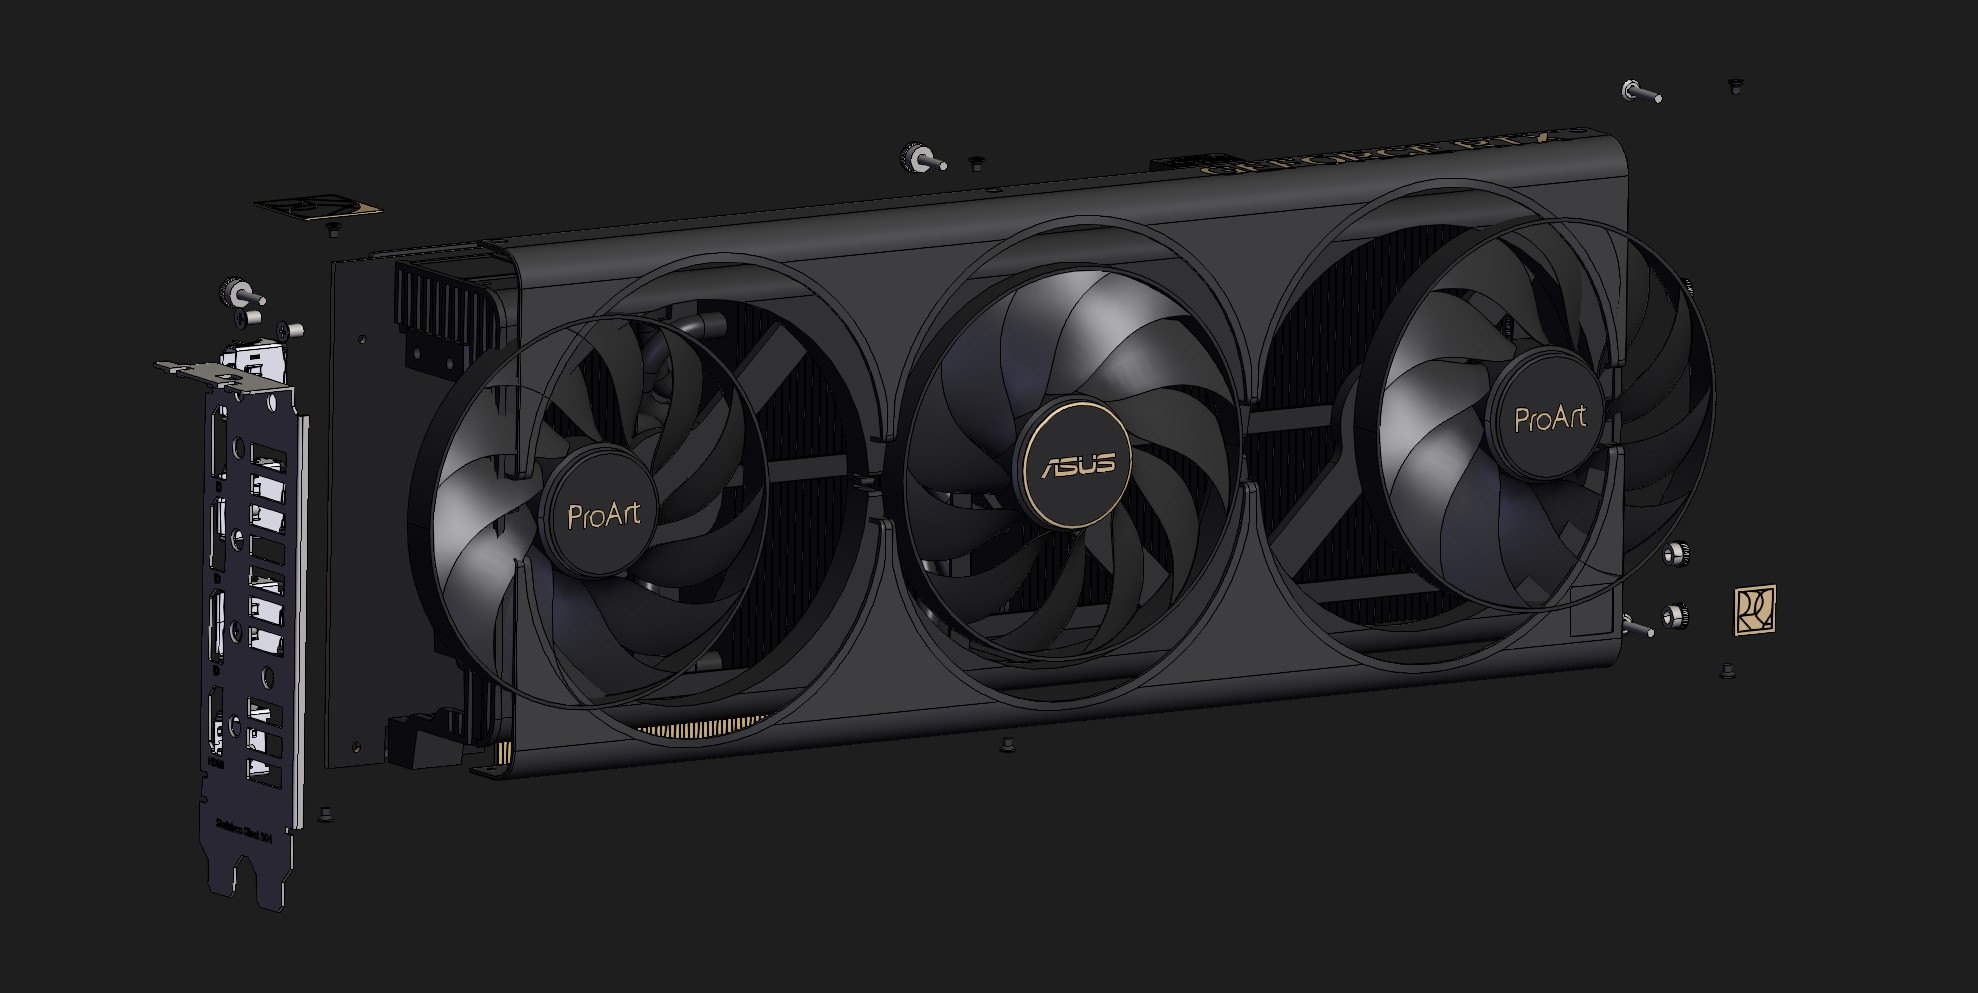
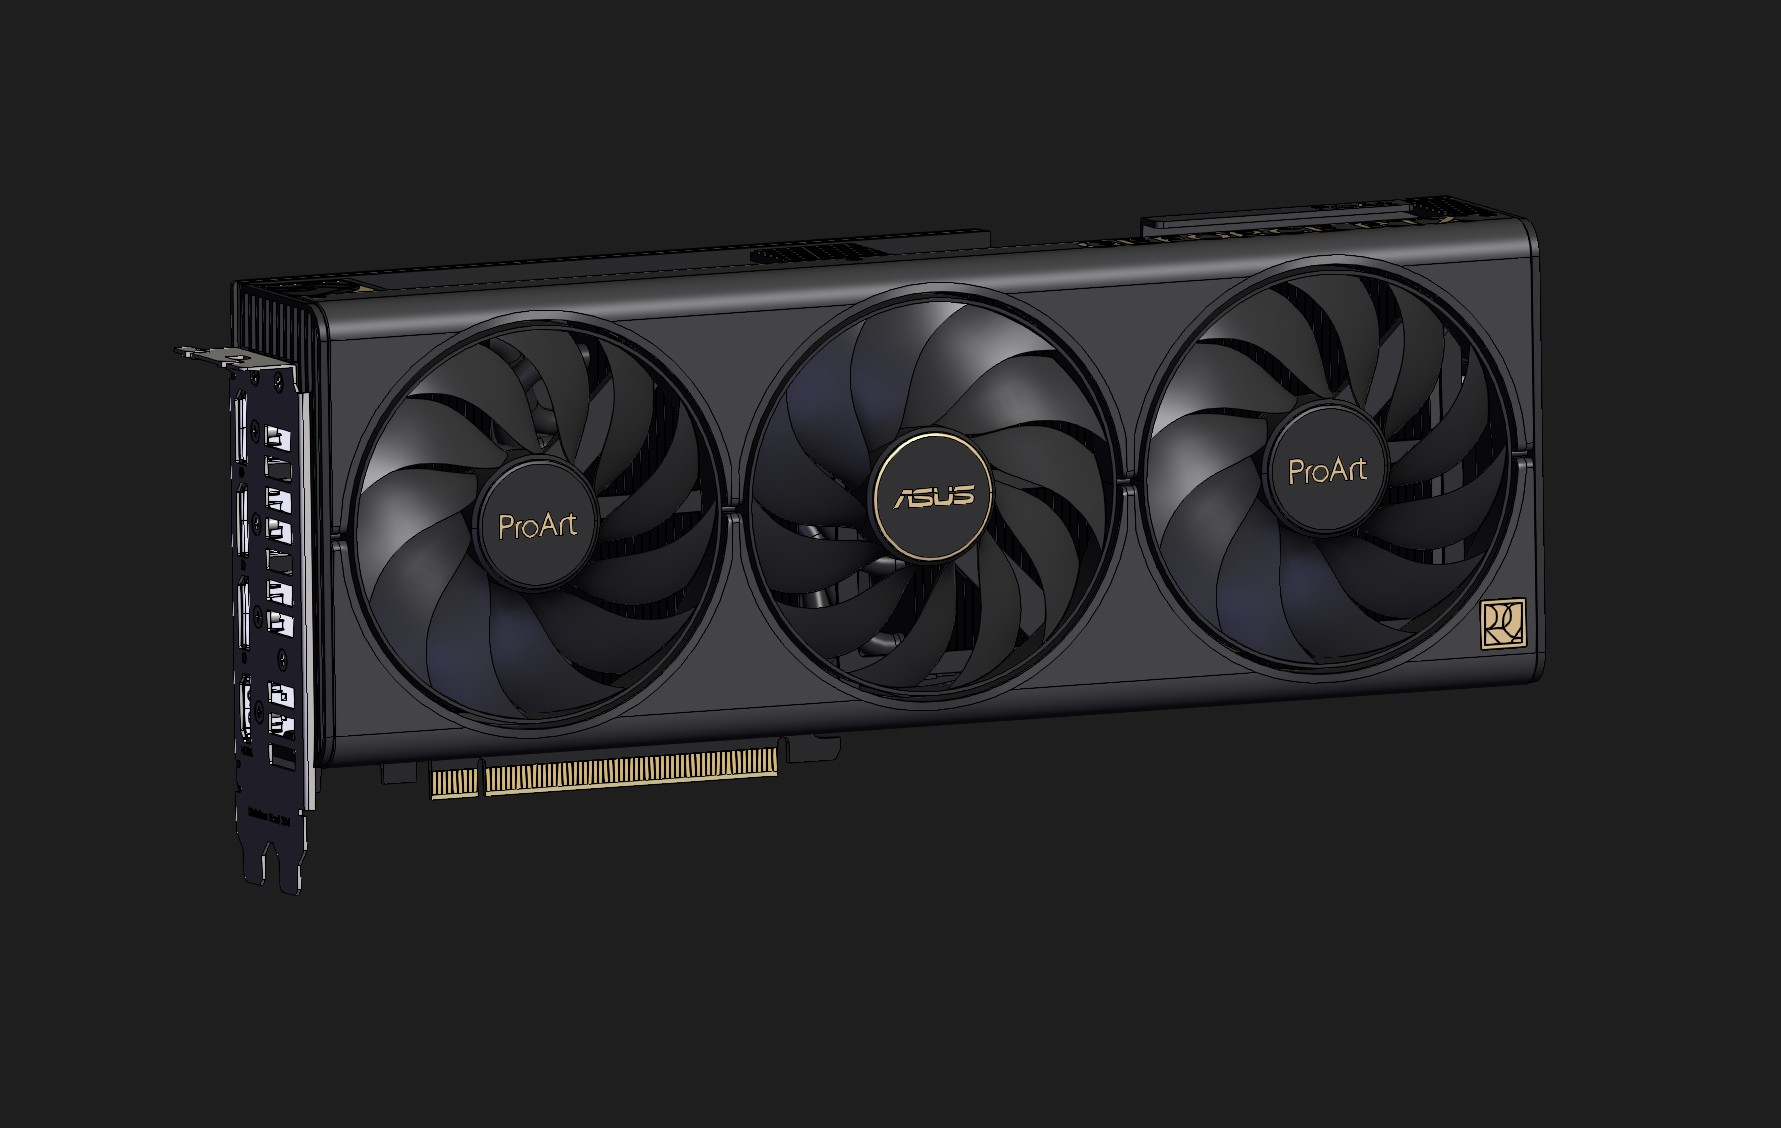
updated input data imagery, added asset descriptions to all sample data readme md files

Changed region(s): [[0.0926, 0.1249, 0.8956, 0.8429], [0.8029, 0.0624, 0.8338, 0.0937]]

diff --git a/sample-assets/WRE 45 ASS TOTAL.x_t/README.md b/sample-assets/WRE 45 ASS TOTAL.x_t/README.md
@@ -10,7 +10,9 @@ https://grabcad.com/library/refrigerator-wre45-1
 
 ## Screenshots
 
-![screenshot](<screenshot/WRE 45 ASS TOTAL.x_t.jpg>)
+![screenshot](<screenshot/WRE 45 ASS TOTAL.x_t.jpg>)  
+
+![screenshot](<screenshot/WRE 45 ASS TOTAL.x_t_explode.jpg>)  
 
 ## Description
 
@@ -18,7 +20,23 @@ refrigerator WRE45 Brastemp Gourmand
 
 ## Purpose
 
-This sample CAD asset demonstrates ...
+This complex sample CAD asset with fillets and interior parts demonstrates quite a few challenges for a propper conversion from parametric CAD to polygonal mesh:
+
+### Small & Interior Parts
+
+1. A few hundred interior parts with nested or overlapping parts (e.g. bolts, hinges within other interior parts).  
+
+### Winding Order
+
+2. Winding Order Issues. These usually stem from translation issues from parametric CAD to mesh surface, but can also have their origin within the CAD data set for example due to intersecting surfaces or open edges.  
+
+![screenshot](<screenshot/WRE 45 ASS TOTAL.x_t_windingOrder.jpg>)  
+
+### Duplicated Parts
+
+3. Some parts can be challenging for further processing as they are overlapping (e.g. pins for winding order correction). This usually stems from issues with instancing or duplicated parametric data from the input asset.  
+
+
 
 
 ## Author

diff --git a/sample-assets/Robot rv.IGS/README.md b/sample-assets/Robot rv.IGS/README.md
@@ -10,7 +10,9 @@ https://grabcad.com/library/mitsubishi-rv-2f-d1-s16-6-axis-robot-arm-1
 
 ## Screenshots
 
-![screenshot](screenshot/Robotrv.jpg)
+![screenshot](screenshot/Robotrv.jpg)  
+
+![screenshot](screenshot/Robotrv_explode.jpg)  
 
 ## Description
 
@@ -28,7 +30,17 @@ Weight: Approx. 17 kg (depending on configuration)
 
 ## Purpose
 
-This sample CAD asset demonstrates ...
+This sample CAD asset demonstrates quite a few challenges for a propper conversion from parametric CAD to polygonal mesh:
+
+### Surface Patches
+
+1. The parametric surface was created through patches which are non-solids and allow for the creation of non-planar, complex 3D surfaces. However these patches present quite a large challenge for the tessellation and mesh processing step. Ideally they are already merged  on the b-rep level before any tessellation.  
+
+### Winding Order
+
+2. Winding Order Issues. These usually stem from translation issues from parametric CAD to mesh surface, but can also have their origin within the CAD data set for example due to intersecting surfaces or open edges.  
+
+![screenshot](<screenshot/Robotrv_windingOrder.jpg>)  
 
 
 ## Author

diff --git a/sample-assets/28L Storage Box - Assembly.x_t/README.md b/sample-assets/28L Storage Box - Assembly.x_t/README.md
@@ -27,7 +27,13 @@ Sterilite's Ultra™ Latch Storage Box line is ideal for those customers who wan
 
 ## Purpose
 
-This sample CAD asset demonstrates ...
+This sample CAD asset demonstrates multiple challenges for the dataprep and 3D processing steps:  
+
+1. Parts of this asset (lid) provide an exceptional challenge for the initial mesh normal calculation during the tessellation process. This is usually due to inaccuracies during the conversion process and the origin of those are usually complex fillets or sharp edges within the original parametric surfaces or solid.  
+
+2. Complex Corner fillets. These particular shapes within the parametric CAD surface data is very challenging for the tessellation process and can lead to inaccuracies such as overlapping triangles and other topological issues within the geometry.  
+
+3. Double-sided surfaces. The storage box walls are double sided and provide a challenge for tessellation, especially lower resolutions where resulting tessellated surfaces might be overlapping.  
 
 
 ## Author

diff --git a/sample-assets/Cordless Drill DeWalt DCD791_variation01-standard.3dm/README.md b/sample-assets/Cordless Drill DeWalt DCD791_variation01-standard.3dm/README.md
@@ -14,11 +14,17 @@ Cordless Drill DeWalt DCD791_variation01 - Standard Variant with Interior Parts
 
 ## Description
 
-TBD
+Sample model created by DGG in .3dm format. Create with Rhino - Rhinoceros 3D.  
 
 ## Purpose
 
-This sample CAD asset demonstrates ...
+This sample CAD asset is a good showcase for a simple parametric object with a few challenges:
+
+1. Complex fillets and solid parts which can be challenging for tessellation process.  
+
+2. Interior Parts (battery charger etc.).  
+
+3. Extruded text as part of the CAD surfaces. This can be very challenging for 3D processing and optimization after initial tessellation.  
 
 
 ## Author
@@ -27,4 +33,6 @@ DGG - https://rapidpipeline.com/en/blog/rapidpipeline-twin-studio-digital-twin-c
 
 ## Legal
 
-TBD 
+[DGG Privacy Policy](https://rapidpipeline.com/en/privacy-policy/)  
+
+[DGG](https://rapidpipeline.com/en/imprint/)  

diff --git a/sample-assets/Cooper CAD refined.step/README.md b/sample-assets/Cooper CAD refined.step/README.md
@@ -10,7 +10,9 @@ https://grabcad.com/library/cooper-quadruped-robot-robot-dog-1
 
 ## Screenshots
 
-![screenshot](screenshot/cooper-quadruped-robot-robot-dog-1.jpg)
+![screenshot](screenshot/cooper-quadruped-robot-robot-dog-1.jpg)  
+
+![screenshot](screenshot/cooper-quadruped-robot-robot-dog-1_explode.jpg)  
 
 ## Description
 
@@ -22,7 +24,7 @@ Overall, the final robot is a stiff, reliable and high-performance quadruped des
 
 ## Purpose
 
-This sample CAD asset demonstrates ...
+This asset is a good example for a medium complex CAD assembly with a number of intricate and interior parts (screws, bolts, PCBs etc.) as well as some more complex scene hierarchy and dependencies.  
 
 
 ## Author

diff --git a/sample-assets/KA ProArt- RTX-4090SO16G v16.step/README.md b/sample-assets/KA ProArt- RTX-4090SO16G v16.step/README.md
@@ -10,7 +10,9 @@ https://grabcad.com/library/proart-rtx-4080so16g-1
 
 ## Screenshots
 
-![screenshot](<screenshot/KA ProArt- RTX-4090SO16G v16.jpg>)
+![screenshot](<screenshot/KA ProArt- RTX-4090SO16G v16.jpg>)  
+
+![screenshot](<screenshot/KA ProArt- RTX-4090SO16G v16_explode.jpg>)  
 
 ## Description
 
@@ -18,7 +20,7 @@ Drawing software: Fusion360. Manual surveying may contain errors; for reference 
 
 ## Purpose
 
-This sample CAD asset demonstrates ...
+This sample CAD asset is a representative example for a small sized hard-surface object with fillets, interior parts, extruded text and parts created from Tangent Surfaces.  
 
 
 ## Author

diff --git a/sample-assets/ASSEMBLING_notebook.STEP/README.md b/sample-assets/ASSEMBLING_notebook.STEP/README.md
@@ -10,7 +10,9 @@ https://grabcad.com/library/laptop-s1-1
 
 ## Screenshots
 
-![screenshot](<screenshot/ASSEMBLING_notebook.jpg>)
+![screenshot](<screenshot/ASSEMBLING_notebook.jpg>)  
+
+![screenshot](<screenshot/ASSEMBLING_notebook_explode.jpg>)  
 
 ## Description
 
@@ -25,8 +27,7 @@ battery 180Wh (up to 12 hours of continuous operation)
 
 ## Purpose
 
-This sample CAD asset demonstrates ...
-
+This sample CAD asset is a simple example for a small sized hard-surface objects with some basic fillets and interior parts.  
 
 ## Author
 

diff --git a/sample-assets/EG 43-17 HG Pojemnik.STEP/README.md b/sample-assets/EG 43-17 HG Pojemnik.STEP/README.md
@@ -29,8 +29,8 @@ Colour silver grey similar RAL 7001
 
 ## Purpose
 
-This sample CAD asset demonstrates ...
-
+This sample CAD asset is suitable to oberve the effects of tessellation and different tessellation resolutions as well as settings.  
+It also contains more sharp / hard-surface shapes as well as some beveled and rounded shapes as well which are a good basis evaluating tessellation quality.  
 
 ## Author
 

diff --git a/sample-assets/no.468 gt4rs.stp/README.md b/sample-assets/no.468 gt4rs.stp/README.md
@@ -10,7 +10,9 @@ https://grabcad.com/library/porsche-718-cayman-gt4-rs-1
 
 ## Screenshots
 
-![screenshot](<screenshot/no.468 gt4rs.jpg>)
+![screenshot](<screenshot/no.468 gt4rs.jpg>)  
+
+![screenshot](<screenshot/no.468 gt4rs_explode.jpg>)  
 
 ## Description
 
